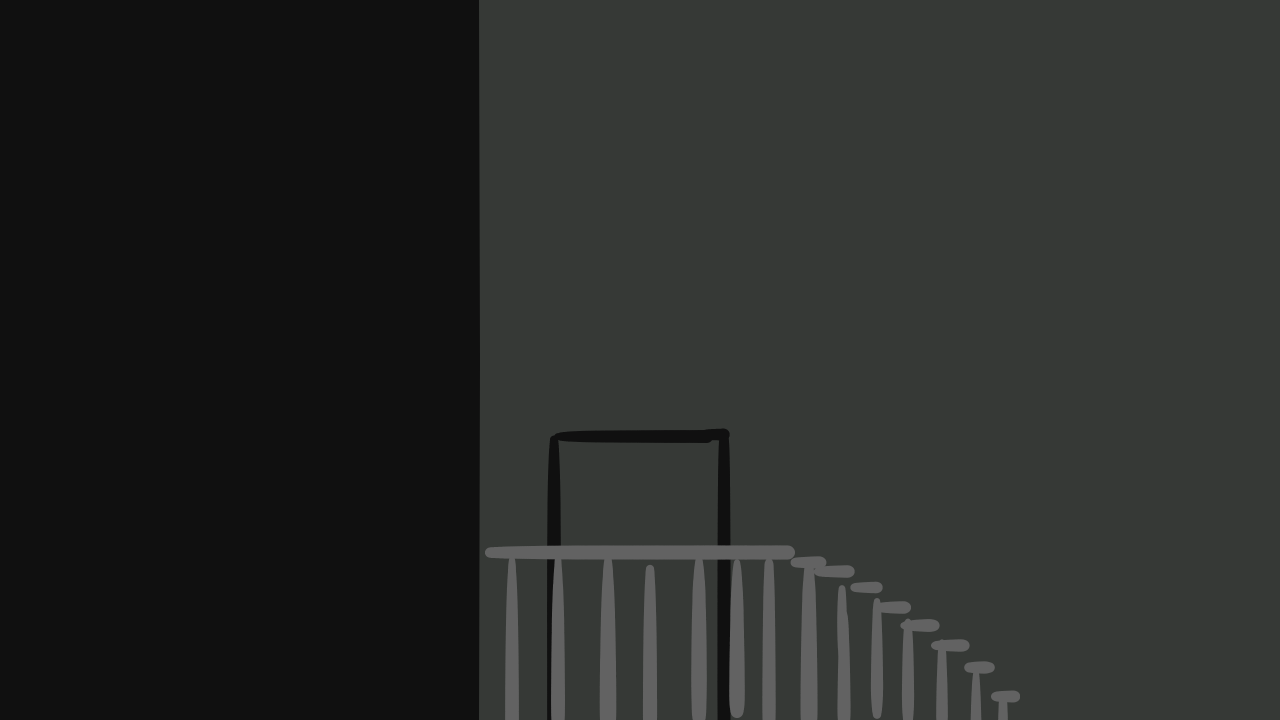
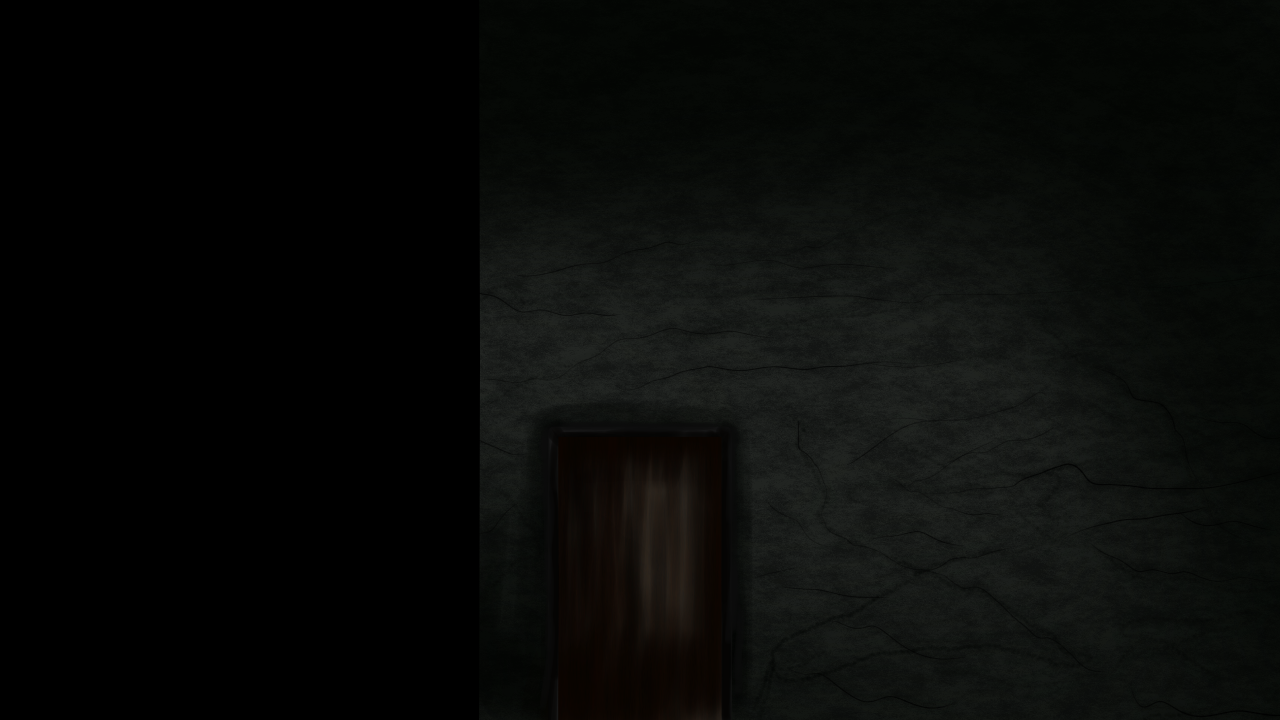
Added some of the background images

diff --git a/scripts.py b/scripts.py
@@ -47,7 +47,7 @@ def script_main_hall(scene: Scene, wesker: Wesker, screen: pygame.Surface, clock
     line_rect.x = WIDTH // 2 - line_rect.width // 2
     line_rect.y = (ACTUAL_HEIGHT + FLOOR_HEIGHT // 2) - line_rect.height // 2
 
-    floor_color = (10, 10, 10)
+    floor_color = (0, 0, 0)
     floor_rect = pygame.Rect(0, ACTUAL_HEIGHT, WIDTH, FLOOR_HEIGHT)
 
     wesker.change_x_velocity(0)
@@ -159,7 +159,7 @@ def script_east_wing_stairway(scene: Scene, wesker: Wesker, screen: pygame.Surfa
     line_rect.x = WIDTH // 2 - line_rect.width // 2
     line_rect.y = (ACTUAL_HEIGHT + FLOOR_HEIGHT // 2) - line_rect.height // 2
 
-    floor_color = (10, 10, 10)
+    floor_color = (0, 0, 0)
     floor_rect = pygame.Rect(0, ACTUAL_HEIGHT, WIDTH, FLOOR_HEIGHT)
 
     wesker.change_x_velocity(0)
@@ -338,7 +338,7 @@ def script_gh_corr(scene: Scene, wesker: Wesker, screen: pygame.Surface, clock: 
     line_rect.x = WIDTH // 2 - line_rect.width // 2
     line_rect.y = (ACTUAL_HEIGHT + FLOOR_HEIGHT // 2) - line_rect.height // 2
 
-    floor_color = (10, 10, 10)
+    floor_color = (0, 0, 0)
     floor_rect = pygame.Rect(0, ACTUAL_HEIGHT, WIDTH, FLOOR_HEIGHT)
 
     wesker.change_x_velocity(0)
@@ -471,7 +471,7 @@ def script_generator_room(scene: Scene, wesker: Wesker, screen: pygame.Surface, 
     line_rect.x = WIDTH // 2 - line_rect.width // 2
     line_rect.y = (ACTUAL_HEIGHT + FLOOR_HEIGHT // 2) - line_rect.height // 2
 
-    floor_color = (10, 10, 10)
+    floor_color = (0, 0, 0)
     floor_rect = pygame.Rect(0, ACTUAL_HEIGHT, WIDTH, FLOOR_HEIGHT)
 
     wesker.change_x_velocity(0)
@@ -564,7 +564,7 @@ def script_enrico_room(scene: Scene, wesker: Wesker, screen: pygame.Surface, clo
     line_rect.x = WIDTH // 2 - line_rect.width // 2
     line_rect.y = (ACTUAL_HEIGHT + FLOOR_HEIGHT // 2) - line_rect.height // 2
 
-    floor_color = (10, 10, 10)
+    floor_color = (0, 0, 0)
     floor_rect = pygame.Rect(0, ACTUAL_HEIGHT, WIDTH, FLOOR_HEIGHT)
 
     wesker.change_x_velocity(0)
@@ -729,7 +729,7 @@ def script_altar_after_fight(scene: Scene, wesker: Wesker, screen: pygame.Surfac
     line_rect.x = WIDTH // 2 - line_rect.width // 2
     line_rect.y = (ACTUAL_HEIGHT + FLOOR_HEIGHT // 2) - line_rect.height // 2
 
-    floor_color = (10, 10, 10)
+    floor_color = (0, 0, 0)
     floor_rect = pygame.Rect(0, ACTUAL_HEIGHT, WIDTH, FLOOR_HEIGHT)
 
     wesker.change_x_velocity(0)
@@ -836,7 +836,7 @@ def script_main_lab(scene: Scene, wesker: Wesker, screen: pygame.Surface, clock:
     line_rect.x = WIDTH // 2 - line_rect.width // 2
     line_rect.y = (ACTUAL_HEIGHT + FLOOR_HEIGHT // 2) - line_rect.height // 2
 
-    floor_color = (10, 10, 10)
+    floor_color = (0, 0, 0)
     floor_rect = pygame.Rect(0, ACTUAL_HEIGHT, WIDTH, FLOOR_HEIGHT)
 
     wesker.change_x_velocity(0)

diff --git a/game.py b/game.py
@@ -215,7 +215,7 @@ class Game:
             self.__scenes[15].delete_last_entity()
             self.__current_scene = 15
             self.__wesker.change_x_position(WIDTH - 220)
-            self.__scenes[18].add_entity(Enemy(WIDTH - 300, 6))
+            self.__scenes[18].add_entity(Enemy(WIDTH - 300, 4))
             self.__scenes[17].add_entity(Door(WIDTH // 2 - 75, 'empty_door',
                                               150, 270,
                                               17, 18, 'Altar', 40,
@@ -253,6 +253,7 @@ class Game:
     def __draw(self):
         self.__draw_scene()
         self.__draw_characters()
+        self.__draw_overlay()
         self.__draw_hud()
         self.__draw_darkness()
 
@@ -263,7 +264,7 @@ class Game:
         self.__scenes[self.__current_scene].draw(self.__screen, self.__wesker)
 
     def __draw_floor(self):
-        floor_color = (10, 10, 10)
+        floor_color = (0, 0, 0)
         floor_rect = pygame.Rect(0, ACTUAL_HEIGHT, WIDTH, FLOOR_HEIGHT)
         pygame.draw.rect(self.__screen, floor_color, floor_rect)
 
@@ -277,6 +278,9 @@ class Game:
 
     def __draw_characters(self):
         self.__wesker.draw_wesker(self.__screen)
+
+    def __draw_overlay(self):
+        self.__scenes[self.__current_scene].draw_overlay(self.__screen)
 
     def __draw_hud(self):
         self.__hud.draw_hud(self.__screen)
@@ -352,7 +356,7 @@ class Game:
                  'empty_door', 150, 270,
                  2, 1, 'the upstairs of Graveyard', WIDTH - 220,
                  self.__font_special),
-            Door(200,
+            Door(300,
                  'empty_door', 150, 270,
                  2, 3, 'Large Gallery', 0,
                  self.__font_special)
@@ -641,13 +645,13 @@ class Game:
         self.__scenes = [Scene(0, 'main_hall', main_hall,
                                self.__font_special, 100, 100),
                          Scene(1, 'graveyard_top', graveyard_top,
-                               self.__font_special, 490),
+                               self.__font_special, 490, overlay_image=True),
                          Scene(2, 'graveyard_bottom', graveyard_bottom,
                                self.__font_special),
                          Scene(3, 'large_gallery_front', large_gallery_front,
                                self.__font_special),
                          Scene(4, 'large_gallery_back', large_gallery_back,
-                               self.__font_special),
+                               self.__font_special, overlay_image=True),
                          Scene(5, 'dark_corridor', dark_corridor,
                                self.__font_special),
                          Scene(6, 'east_wing_stairway', east_wing_stairway,

diff --git a/scenes.py b/scenes.py
@@ -8,23 +8,24 @@ from hud import HUD
 
 class Scene:
     def __init__(self, scene_id, background_image, entities, font,
-                 left_wall_width=0, right_wall_width=0, overlay_image=None):
+                 left_wall_width=0, right_wall_width=0, overlay_image=False):
         self.__scene_id = scene_id
         self.__background_image = pygame.transform.scale(
             pygame.image.load(f'images/background_img/{background_image}.png').convert_alpha(),
             (WIDTH, ACTUAL_HEIGHT),
         )
 
-        if overlay_image:
+        self.__overlay = overlay_image
+        if self.__overlay:
             self.__overlay_image = pygame.transform.scale(
-                pygame.image.load(f'images/background_img/{overlay_image}.png').convert_alpha(),
+                pygame.image.load(f'images/background_img/{background_image}_overlay.png').convert_alpha(),
                 (WIDTH, ACTUAL_HEIGHT),
             )
 
         self.__left_wall_width = left_wall_width
         self.__right_wall_width = right_wall_width
 
-        self.__background_rect = pygame.Rect(0, 0, WIDTH, HEIGHT)
+        self.__background_rect = pygame.Rect(0, 0, WIDTH, ACTUAL_HEIGHT)
         self.__entities: list = entities
 
         self.__font = font
@@ -67,6 +68,10 @@ class Scene:
     def draw(self, screen, wesker: Wesker):
         self.__draw_background(screen)
         self.__draw_entities(screen, wesker)
+
+    def draw_overlay(self, screen):
+        if self.__overlay:
+            screen.blit(self.__overlay_image, self.__background_rect)
 
     def draw_for_script(self, screen):
         self.__draw_background(screen)

diff --git a/constants.py b/constants.py
@@ -12,11 +12,9 @@ DEFAULT_AMMO_STORED = 30
 # (name, health, dmg, velocity, is_poisonous, width, height)
 ENEMY_TYPES = (
     ('zombie', 3, 25, 2, False, 100, 200),
-    ('crimson_head', 3, 25, 3, False, 100, 200),
-    ('cerberus', 2, 10, 5, False, 100, 50),
+    ('cerberus', 2, 10, 5, False, 200, 100),
     ('adder', 1, 1, 5, True, 100, 20),
-    ('hunter', 5, 40, 2, True, 200, 200),
-    ('chimera', 2, 10, 5, False, 100, 200),
+    ('hunter', 5, 40, 2, True, 250, 250),
     ('lisa_trevor', 20, 40, 1, False, 200, 200)
 )
 
@@ -27,7 +25,7 @@ ITEM_TYPES = (
     ('green_herb', 70, 100, 'Green Herb'),              # 2
     ('red_herb', 70, 100, 'Red Herb'),                  # 3
     ('blue_herb', 70, 100, 'Blue Herb'),                # 4
-    ('dagger', 50, 50, 'Dagger'),                      # 5
+    ('dagger', 70, 20, 'Dagger'),                      # 5
     ('handgun_ammo', 50, 50, 'Handgun Ammo'),          # 6
     ('mixed_g_r', 50, 50, 'Mixed Herbs (G + R)'),      # 7
     ('mixed_g_b', 50, 50, 'Mixed Herbs (G + B)'),      # 8
